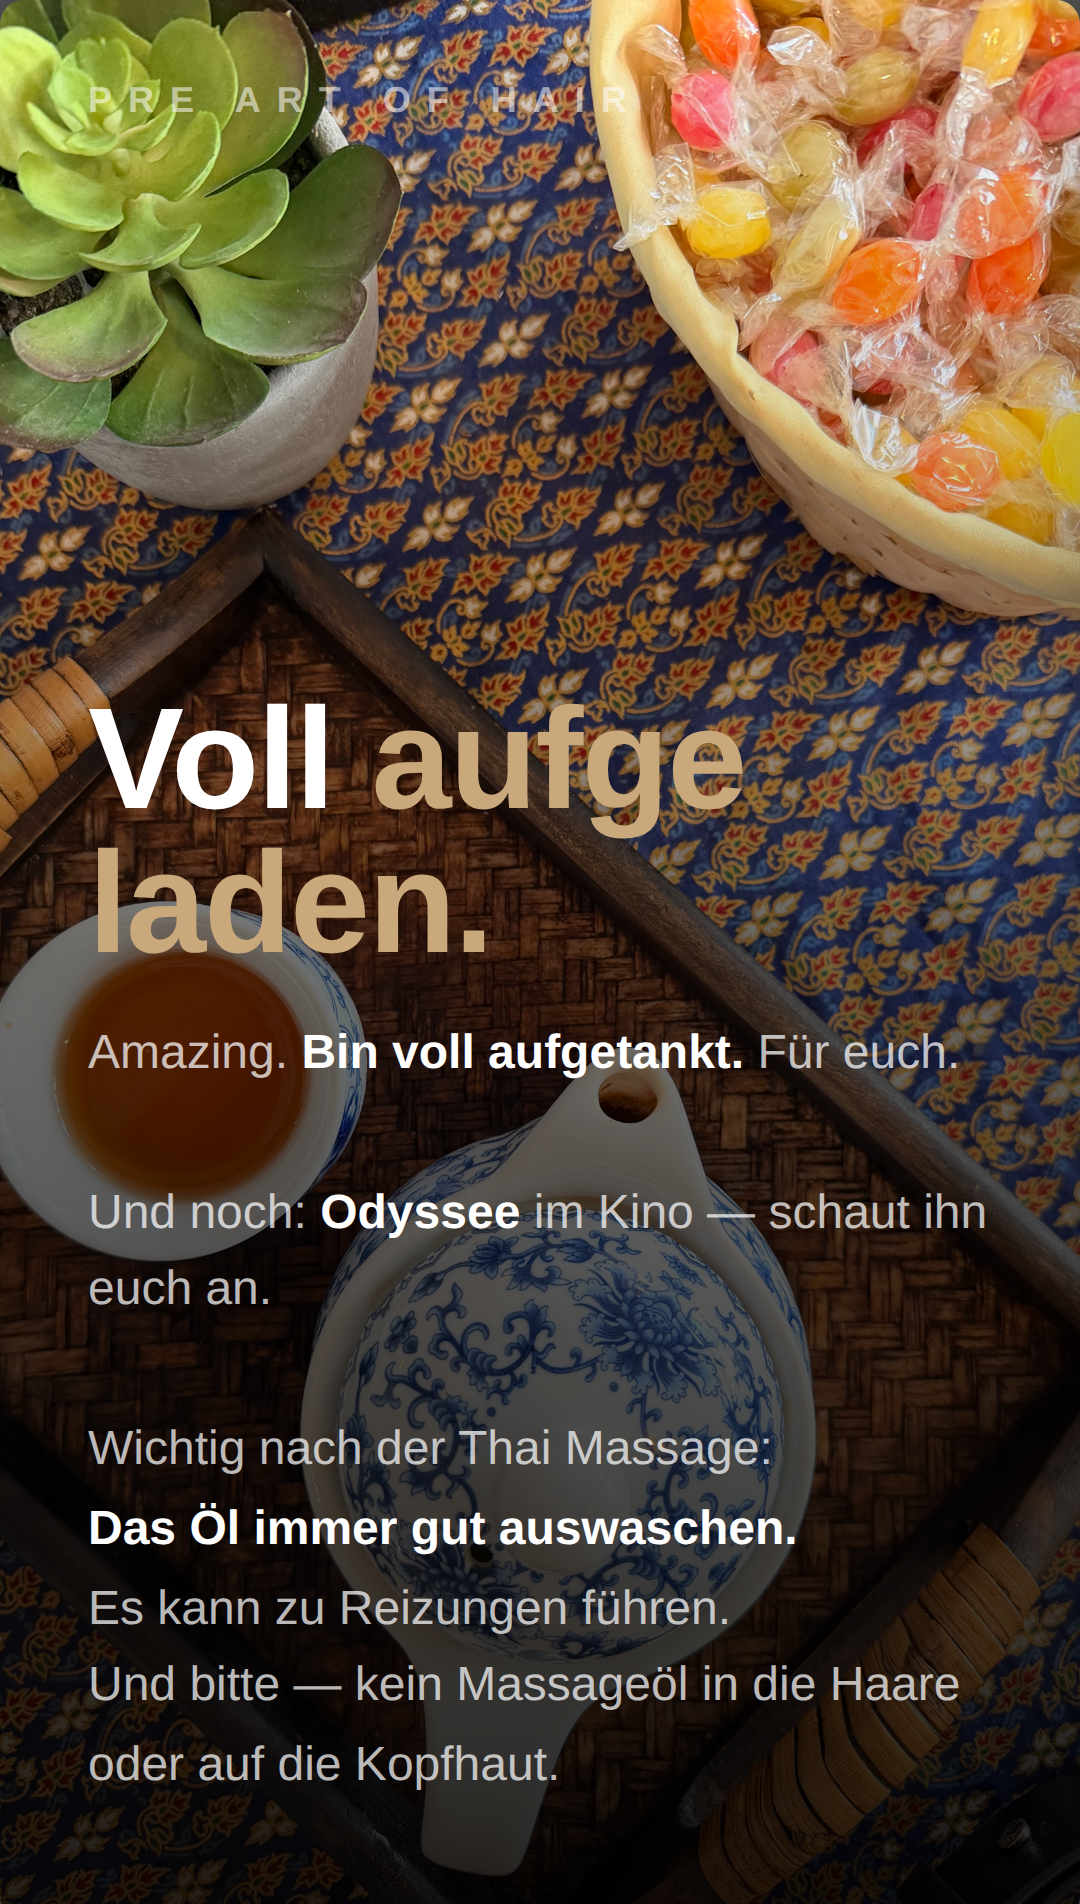
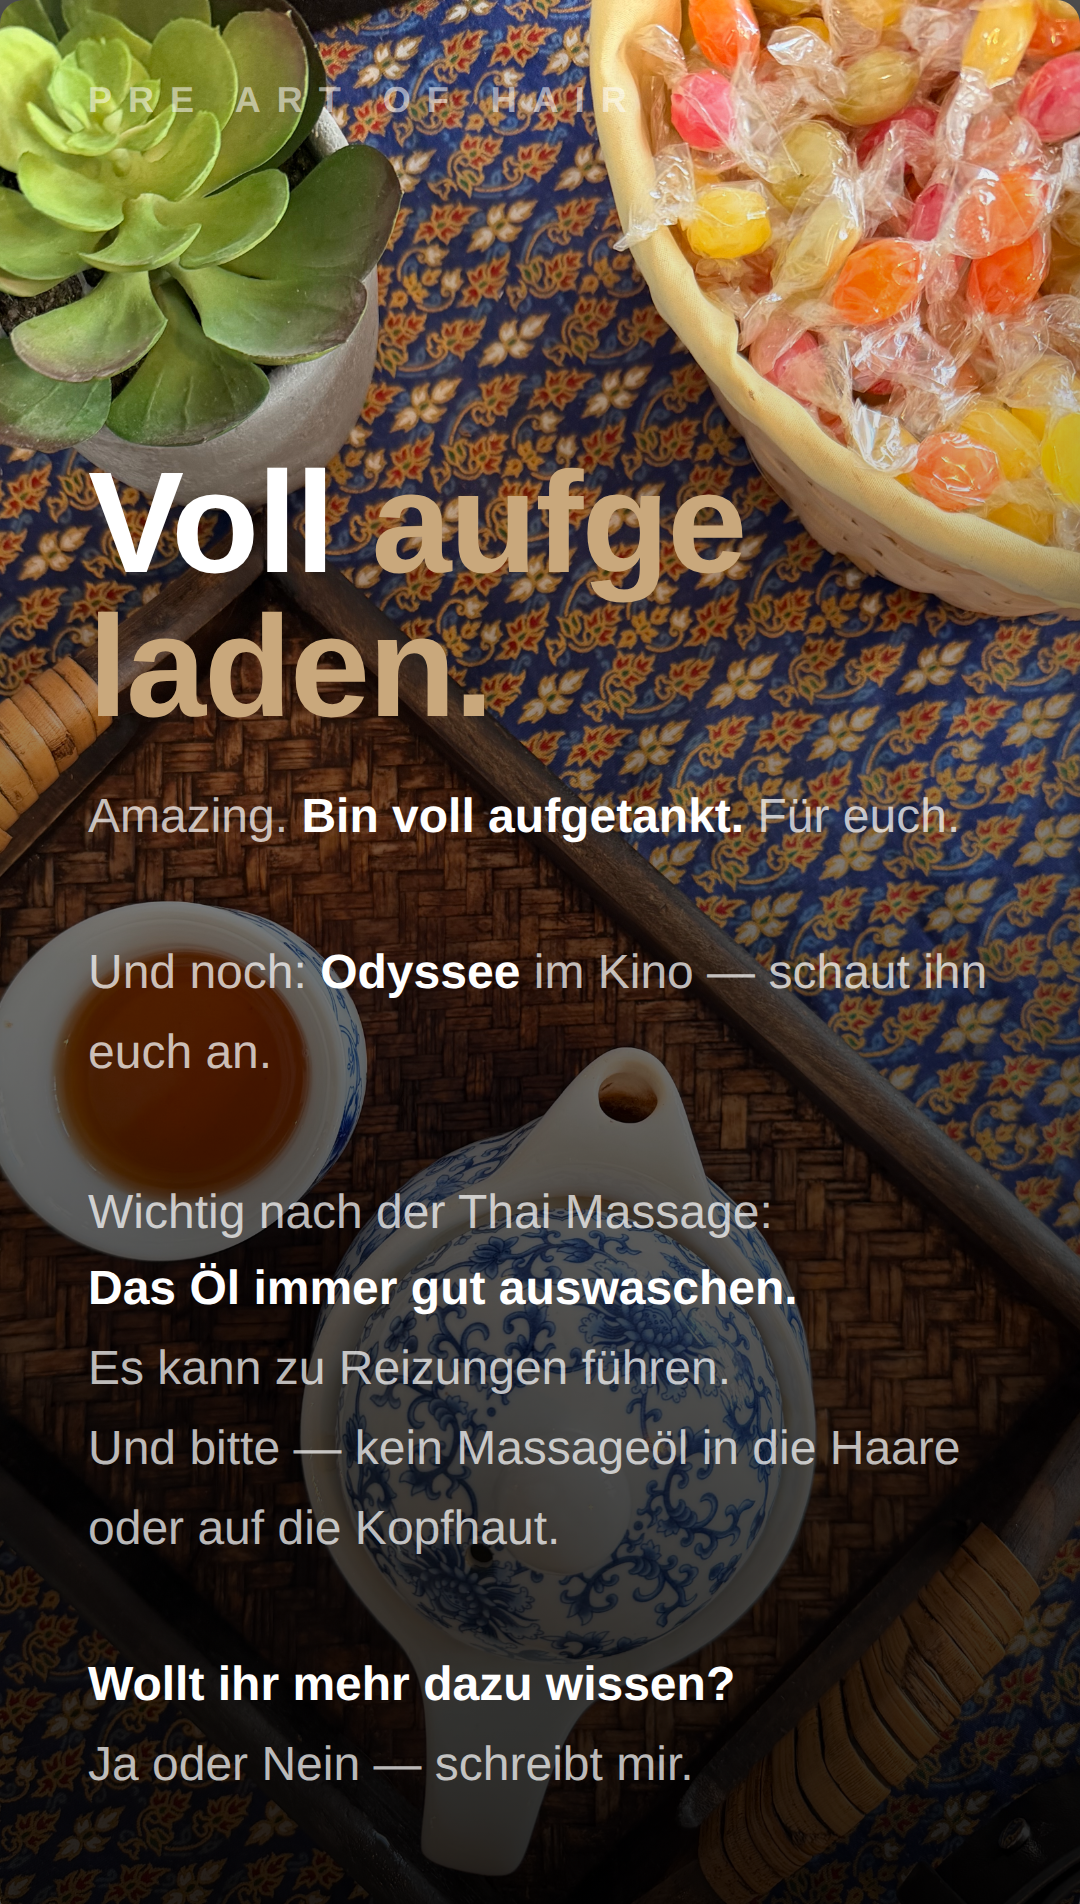
Add Ja/Nein question to KW31 story 2 massage oil tip
Claude-Session: https://claude.ai/code/session_01BaC8m9wAmbtKccXQSCmnYc

diff --git a/stories-kw31.html b/stories-kw31.html
@@ -153,7 +153,9 @@
         <b>Das Öl immer gut auswaschen.</b><br>
         Es kann zu Reizungen führen.<br>
         Und bitte — kein Massageöl in die Haare<br>
-        oder auf die Kopfhaut.
+        oder auf die Kopfhaut.<br><br>
+        <b>Wollt ihr mehr dazu wissen?</b><br>
+        Ja oder Nein — schreibt mir.
       </div>
     </div>
   </div>
